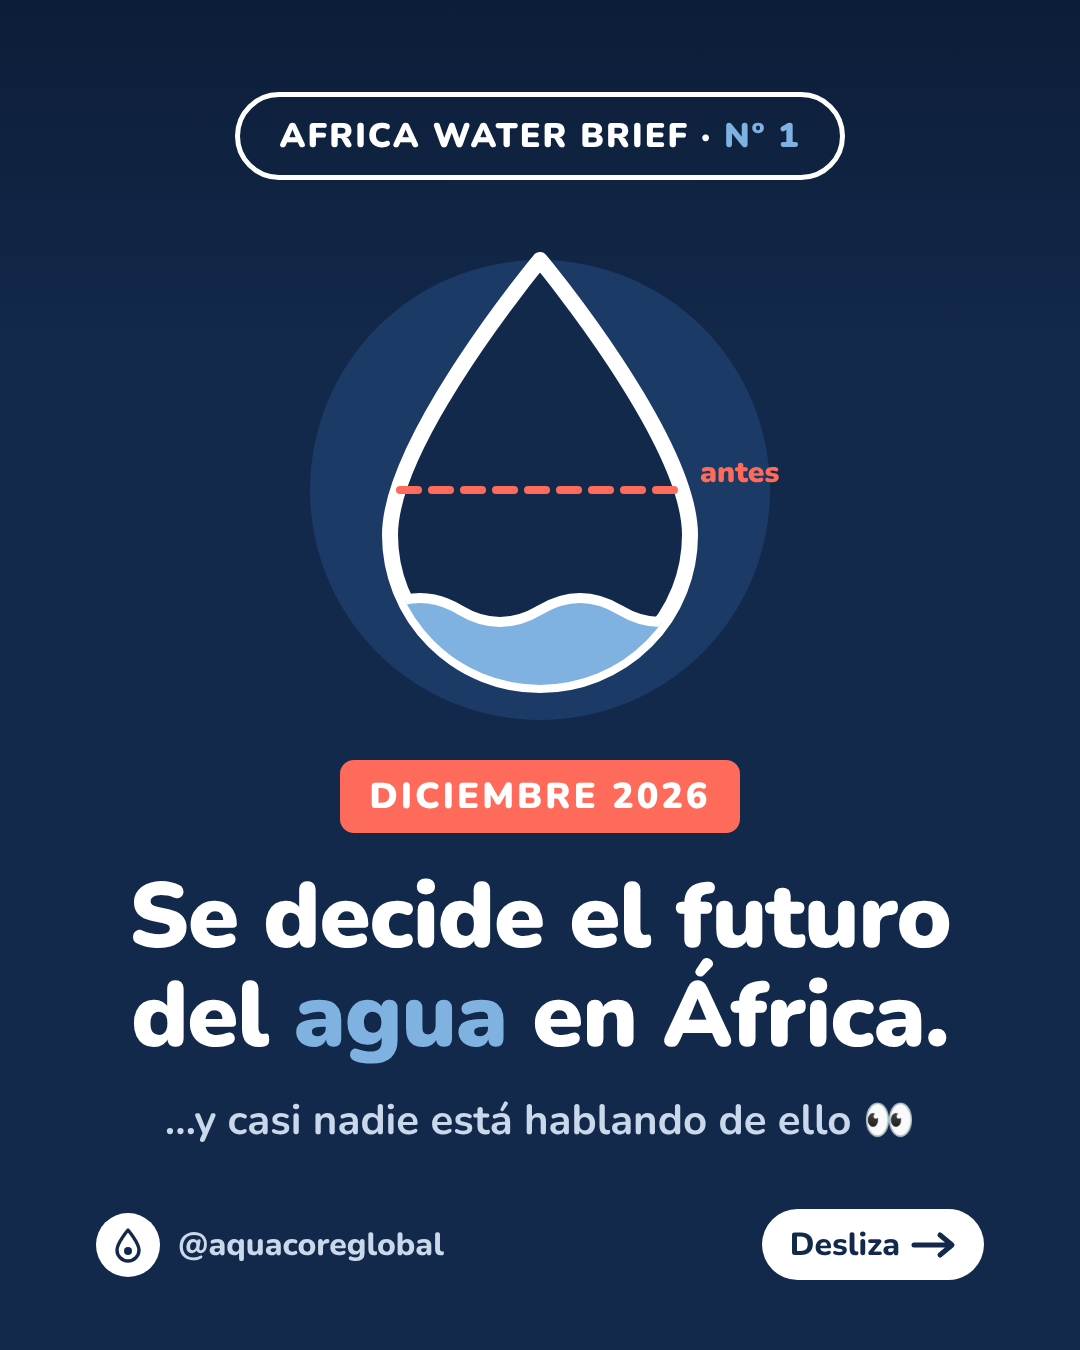
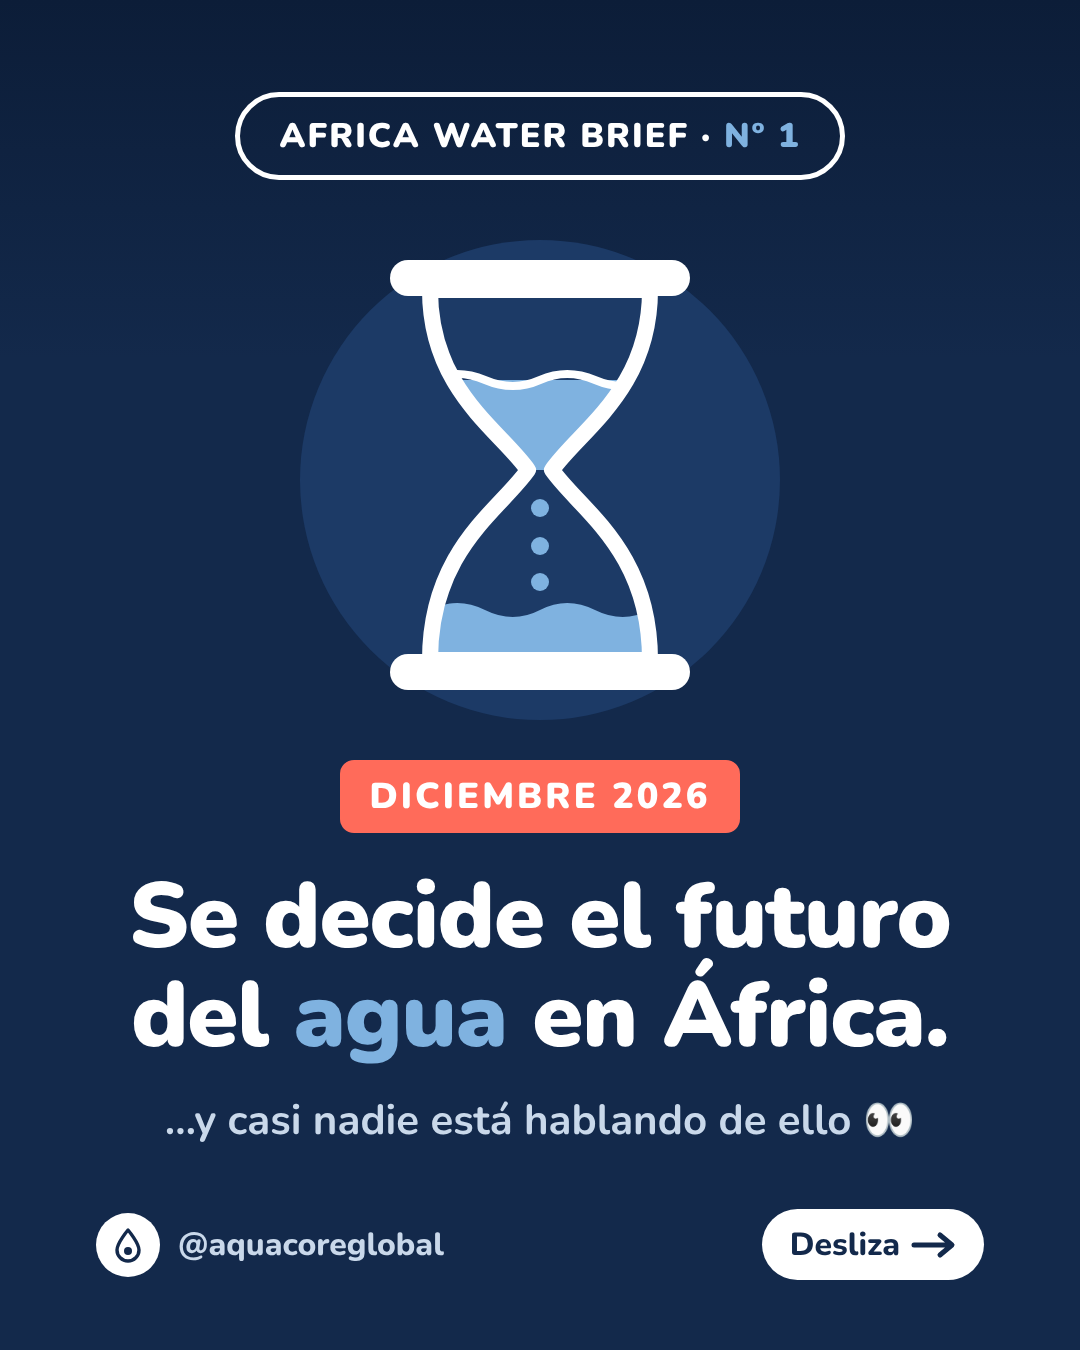
Portada: reloj de arena con agua en lugar de gota
Claude-Session: https://claude.ai/code/session_01C2WTzcQ6PKe9X9fq6xDEGw

diff --git a/carruseles/01-cumbre-agua/carrusel.html b/carruseles/01-cumbre-agua/carrusel.html
@@ -85,15 +85,19 @@
   <div class="pill">AFRICA WATER BRIEF · <b>Nº 1</b></div>
   <div class="art">
     <svg width="520" height="560" viewBox="0 0 520 560">
-      <circle cx="260" cy="300" r="230" fill="#1c3a66"/>
-      <path d="M260 70 C260 70 110 250 110 345 a150 150 0 0 0 300 0 C410 250 260 70 260 70Z" fill="var(--navy)" stroke="#fff" stroke-width="16" stroke-linejoin="round"/>
-      <clipPath id="dropclip"><path d="M260 70 C260 70 110 250 110 345 a150 150 0 0 0 300 0 C410 250 260 70 260 70Z"/></clipPath>
-      <g clip-path="url(#dropclip)">
-        <path d="M100 420 q40 -24 80 0 t80 0 t80 0 t80 0 V520 H100Z" fill="var(--sky)"/>
+      <circle cx="260" cy="290" r="240" fill="#1c3a66"/>
+      <clipPath id="hgclip"><path d="M150 100 H370 C370 200 300 240 272 280 C300 320 370 360 370 470 H150 C150 360 220 320 248 280 C220 240 150 200 150 100Z"/></clipPath>
+      <g clip-path="url(#hgclip)">
+        <path d="M150 190 H370 V280 H150Z" fill="var(--sky)"/>
+        <path d="M150 420 q27 -14 55 0 t55 0 t55 0 t55 0 V480 H150Z" fill="var(--sky)"/>
       </g>
-      <line x1="120" y1="300" x2="400" y2="300" stroke="#ff6b5a" stroke-width="8" stroke-dasharray="18 14" stroke-linecap="round"/>
-      <text x="420" y="292" font-family="Nunito" font-weight="900" font-size="30" fill="#ff6b5a">antes</text>
-      <path d="M100 420 q40 -24 80 0 t80 0 t80 0 t80 0" fill="none" stroke="#fff" stroke-width="10" stroke-linecap="round" clip-path="url(#dropclip)"/>
+      <path d="M150 190 q27 -12 55 0 t55 0 t55 0 t55 0" fill="none" stroke="#fff" stroke-width="8" stroke-linecap="round" clip-path="url(#hgclip)"/>
+      <circle cx="260" cy="318" r="9" fill="var(--sky)"/>
+      <circle cx="260" cy="356" r="9" fill="var(--sky)"/>
+      <circle cx="260" cy="392" r="9" fill="var(--sky)"/>
+      <path d="M150 100 H370 C370 200 300 240 272 280 C300 320 370 360 370 470 H150 C150 360 220 320 248 280 C220 240 150 200 150 100Z" fill="none" stroke="#fff" stroke-width="16" stroke-linejoin="round"/>
+      <rect x="110" y="70" width="300" height="36" rx="18" fill="#fff"/>
+      <rect x="110" y="464" width="300" height="36" rx="18" fill="#fff"/>
     </svg>
   </div>
   <div class="text" style="margin-bottom:200px">
